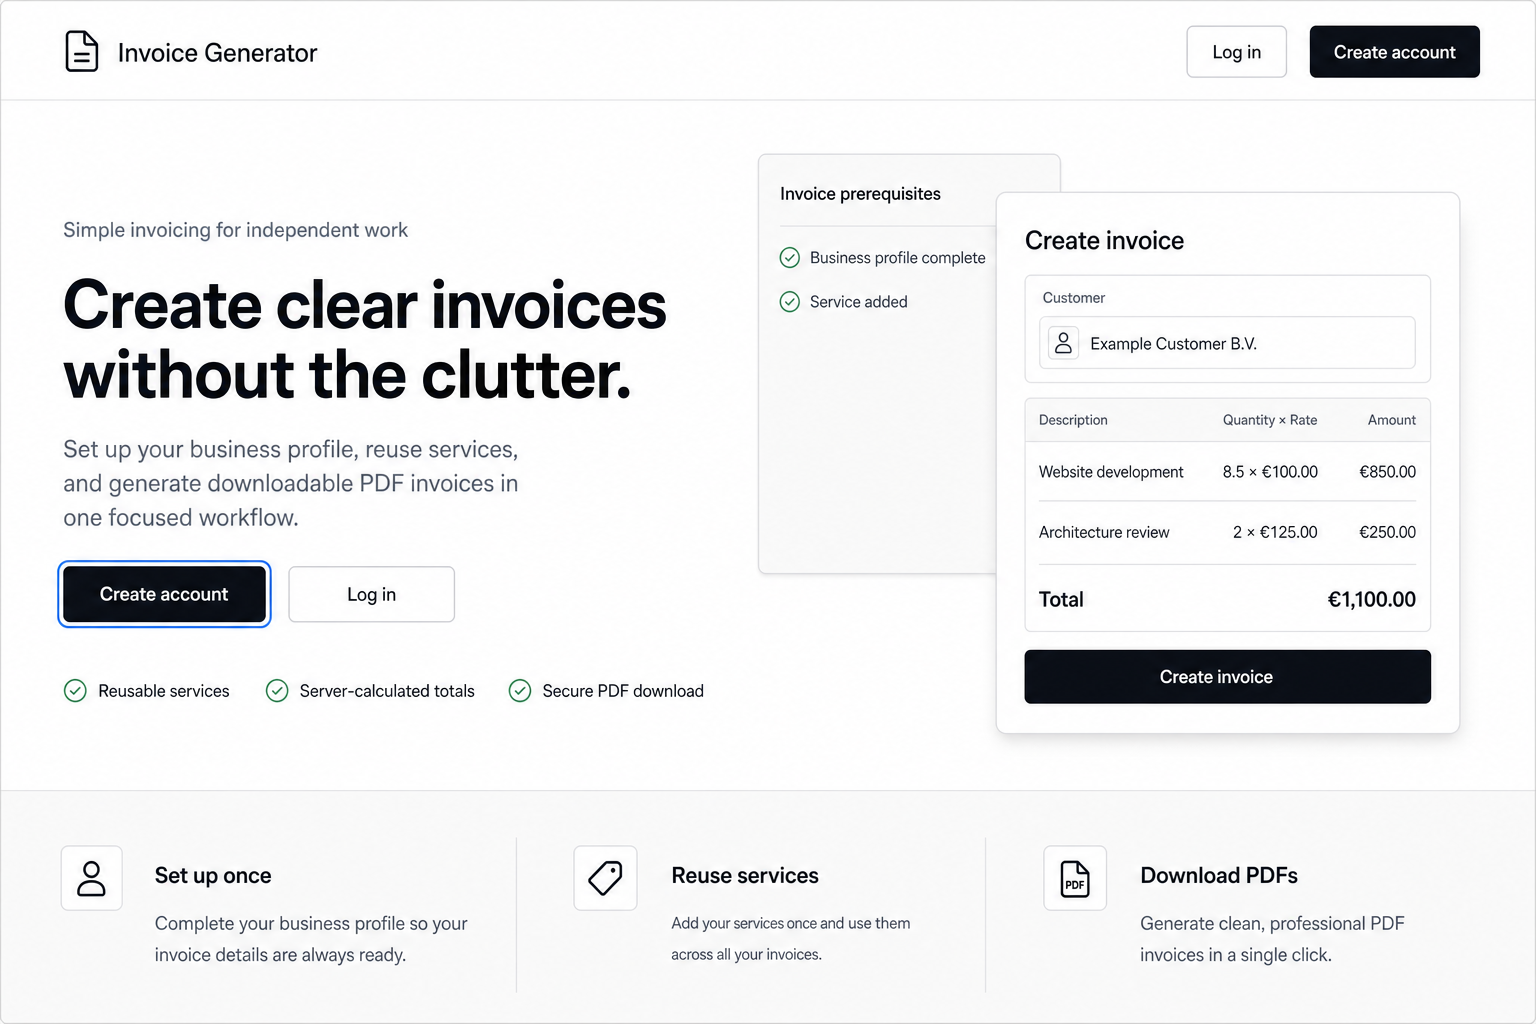
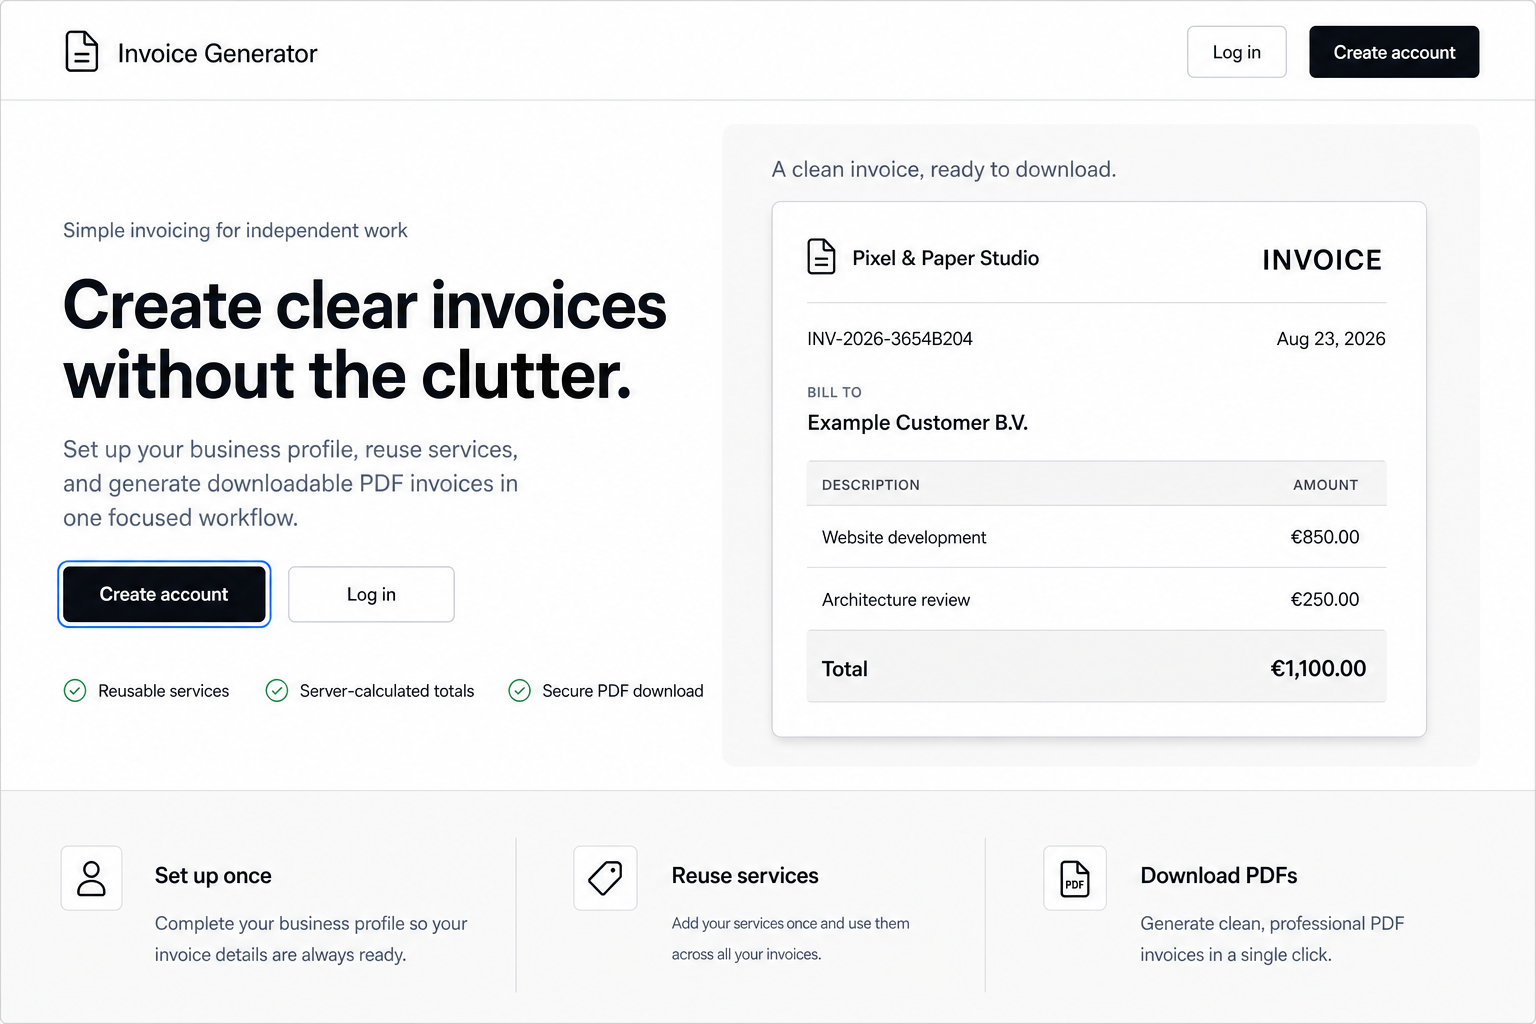
design: align hero invoice previews

diff --git a/docs/design/IMAGEGEN_PROMPTS.md b/docs/design/IMAGEGEN_PROMPTS.md
@@ -119,30 +119,17 @@ Constraints: amounts remain right-aligned; every row and total band is visible a
 Avoid: new content, preview button, application-card styling, VAT, tax, discounts, status/payment UI, bank details, QR code, customer-management module, Dutch, storage URLs or keys, gradients, bright colors, fake logos.
 ```
 
-## Public landing hero mobile — simplified readable invoice edit
+## Public landing hero — desktop invoice parity edit
 
 ```text
 Use case: precise-object-edit
-Asset type: highly readable professional invoice-document preview in mobile landing hero
-Input images: Image 1 is the invoice-readability hero.
-Primary request: preserve the full header, hero, Create account action, and benefits. Simplify and enlarge only the invoice-document area for genuine 390px-class readability.
-Composition: remove the result caption and internal document icon. Move the paper upward, enlarge it to 92-94% of the phone content width, and retain a thin border, subtle shadow, and near-square corners.
-Layout and scale: header "Pixel & Paper Studio" 44-48 source pixels and "INVOICE" 56-60; metadata number/date 40-44; compact bill-to label 36-40 plus customer 44-48; table headers 36-40; rows 42-46; total 48-52. Use 16-20 source-pixel gaps and 24-28 source-pixel paper padding.
-Constraints: exact English copy and values; all rows and total visible above the home indicator; only one dark page CTA; no caption, internal icon, preview button, clipping, overlap, malformed text, horizontal overflow, or watermark.
-Avoid: small metadata, app-card controls, VAT, tax, discounts, status/payment UI, bank details, QR code, customer-management module, Dutch, storage URLs or keys, gradients, bright colors, fake logos.
-```
-
-## Public landing hero mobile — minimal invoice edit
-
-```text
-Use case: precise-object-edit
-Asset type: minimal professional invoice-document preview in mobile landing hero
-Input images: Image 1 is the readable professional invoice hero.
-Primary request: preserve the page outside the invoice paper. Remove the date, standalone BILL TO label, and DESCRIPTION/AMOUNT table header so the document can use large mobile-readable typography.
-Document content: header "Pixel & Paper Studio" and "INVOICE"; number "INV-2026-3654B204"; one customer row "Bill to · Example Customer B.V."; rows "Website development" / "€850.00" and "Architecture review" / "€250.00"; then a top rule and pale total band "Total" / "€1,100.00".
-Scale: paper 92-94% of content width; seller 52-56 source pixels; INVOICE 64-70; number 44-48; customer 52-56; rows 50-54; total 58-62. Use 24-32 source-pixel row gaps, right-aligned amounts, thin separators, subtle border/shadow, and near-square corners.
-Constraints: exact copy and amounts; no other metadata/label; every rendered glyph at least 28 source pixels and body at least 31; all content above home indicator; one dark page CTA; no clipping, overlap, malformed text, horizontal overflow, or watermark.
-Avoid: date, standalone BILL TO, table headers, tiny text, preview button, app controls, VAT, tax, discounts, status/payment UI, bank details, QR code, customer-management module, Dutch, storage URLs or keys, gradients, bright colors, fake logos.
+Asset type: desktop public landing-page hero reference mockup
+Input images: Image 1 is the desktop hero edit target; the selected mobile direction is a professional invoice paper inside a light-gray result area.
+Primary request: preserve the complete desktop header, left hero, actions, benefits, and lower value section. Replace only the right-side overlapping prerequisite/create-form cards with one professional invoice result presentation matching mobile.
+Composition: a light-neutral-gray stage with caption "A clean invoice, ready to download." and a large white paper at 86-90% width, near-square corners, thin border, document margins, and soft shadow.
+Document: header icon plus "Pixel & Paper Studio" and "INVOICE"; metadata "INV-2026-3654B204" and "Aug 23, 2026"; "BILL TO" and "Example Customer B.V."; a light table header "DESCRIPTION" / "AMOUNT"; rows "Website development" / "€850.00" and "Architecture review" / "€250.00"; pale summary "Total" / "€1,100.00".
+Constraints: right side is output evidence, not a form or CTA; exact English text and amounts; neutral shadcn/Inter system; change nothing else; no clipping, malformed text, tiny invoice copy, or watermark.
+Avoid: preview button, app-card controls, prerequisite card, VAT, tax, discounts, status/payment UI, recurring invoices, email delivery, bank details, QR code, customer-management module, Dutch, storage URLs or keys, gradients, bright branding, fake logos.
 ```
 
 ## Profile and services prerequisites — desktop

diff --git a/docs/design/README.md b/docs/design/README.md
@@ -81,8 +81,8 @@ The implementation may keep them as separate routes while reusing the same compl
 
 | Asset | Intent | Visual QA |
 | --- | --- | --- |
-| `landing-hero-desktop.png` | Public desktop landing hero | Account/login actions, focused MVP promise, readable create-invoice preview, and restrained value summary use the existing neutral visual system. |
-| `landing-hero-mobile.png` | Public mobile landing hero | One focused account CTA owns conversion; a quiet result area contains a large, minimal invoice document with readable number, customer, line summaries, and total—without microtext or a second action. |
+| `landing-hero-desktop.png` | Public desktop landing hero | Account/login actions and focused MVP promise sit beside the same professional invoice-paper result presentation used on mobile. |
+| `landing-hero-mobile.png` | Public mobile landing hero | One focused account CTA owns conversion; the user-selected invoice paper retains seller, date, bill-to, table headers, line items, and a restrained total band without a second action. |
 | `profile-services-prerequisites-desktop.png` | Profile plus reusable-service prerequisites | Every required seller value is populated consistently with the completed check; service rows are read-only and expose no overflow/edit/delete action. |
 | `invoice-create-desktop.png` | Complete desktop create form with two editable lines | Two-line layout, dates, EUR preview, server-authority helper, and actions are clear. |
 | `invoice-list-states-desktop.png` | Populated and empty list states | Both states share one navigation hierarchy; row focus and named download actions are visible; no status column exists. |
@@ -98,9 +98,9 @@ The invoice-list asset intentionally presents two design states on one reference
 All seven PNGs were generated with the built-in ImageGen tool. The landing hero has separate desktop
 and mobile compositions rather than one scaled layout. Targeted edits removed a redundant mobile
 login action, brought interactive elements to an accessible scale, and separated the mobile product
-evidence into a quiet result area without a second CTA. The final invoice-paper edits added
-professional document hierarchy and increased its mobile reading scale while retaining the same
-restrained visual system. Other targeted edits replaced a
+evidence into a quiet result area without a second CTA. The user-selected professional invoice-paper
+direction—with metadata, bill-to hierarchy, table, and total—now appears consistently on mobile and
+desktop. Other targeted edits replaced a
 brand-like PDF symbol, corrected completed profile/service state, and replaced the rejected
 full-page mobile capture with a standard-height, task-focused viewport using accessible sizing.
 No CLI/API fallback or production UI code was used. The exact committed-asset prompt set is in
